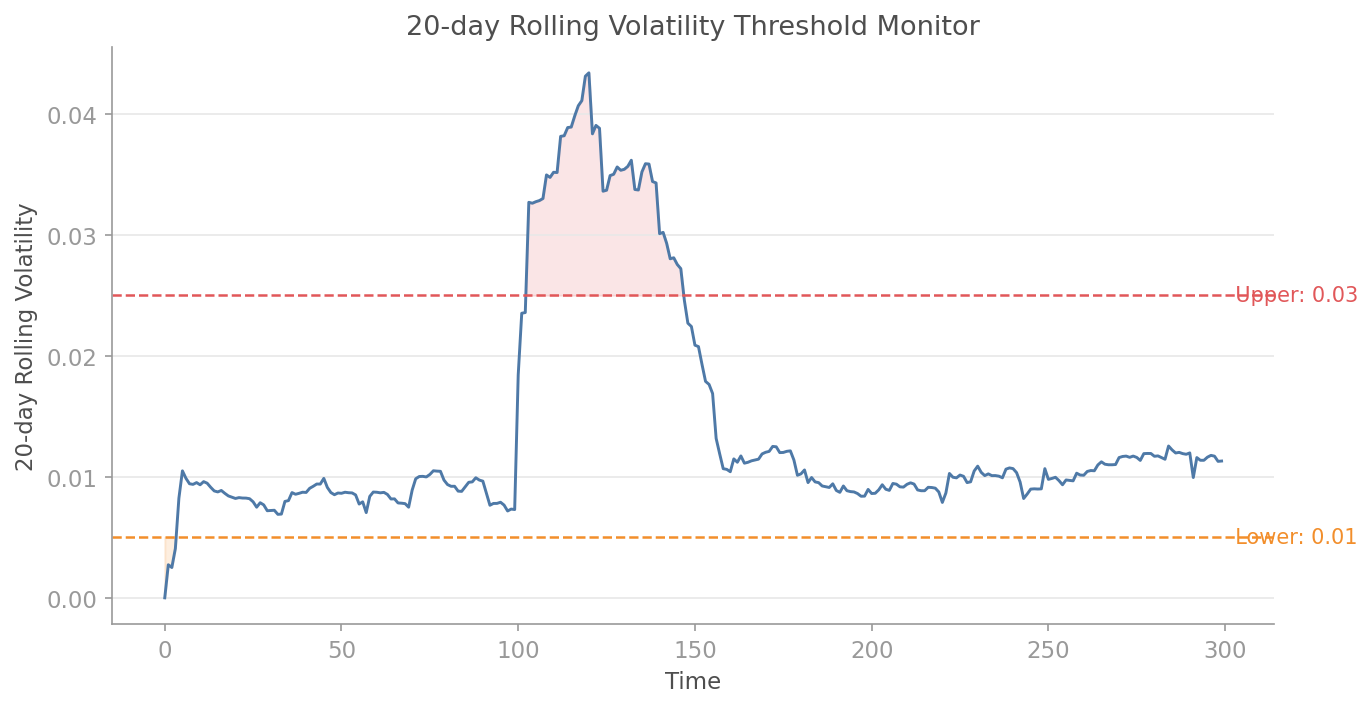
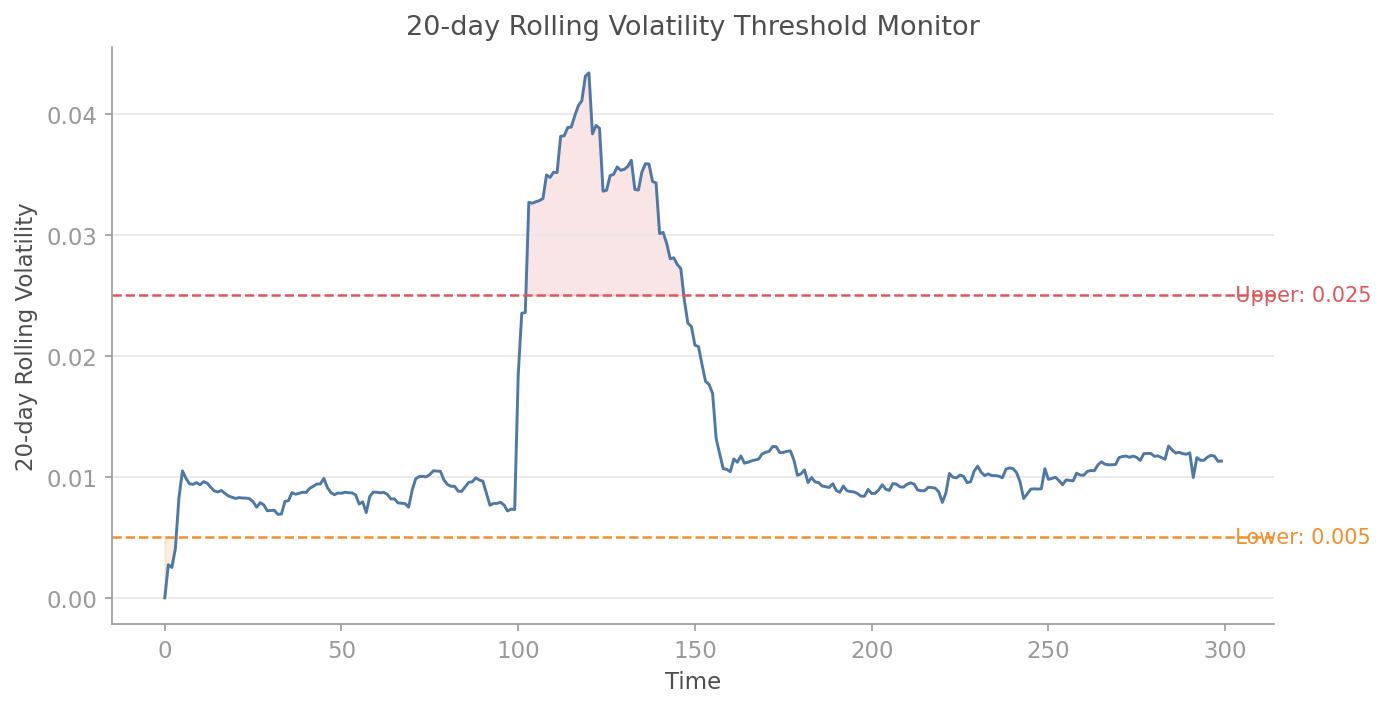
fix: polish all 9 v1.1 visualisation charts to Stephen Few standard
- streaming_live_feed: proper HH:MM timestamps, non-overlapping direct labels
- online_regime_evolution: use #4E79A7 (blue) for Calm instead of green,
  staggered end-of-line labels to prevent overlap
- online_regime_transitions: direct labels placed at longest regime run,
  use blue for Calm regime colour
- online_detection_lag: use primary blue for batch line
- alert_timeline: replace cluttered triangle markers with vertical lines
  at alpha 0.45 for cleaner crash-zone visualisation
- alert_threshold_monitor: fix label precision (0.025 not 0.03)
- All charts: Stephen Few muted palette, horizontal gridlines only,
  no box/frame, direct labels, bbox_inches=tight, dpi=150

diff --git a/src/quantlite/viz/online_regimes.py b/src/quantlite/viz/online_regimes.py
@@ -22,9 +22,9 @@ __all__ = [
 ]
 
 _REGIME_COLOURS = {
-    0: FEW_PALETTE["positive"],   # Calm
-    1: FEW_PALETTE["secondary"],  # Transitional
-    2: FEW_PALETTE["negative"],   # Crisis
+    0: FEW_PALETTE["primary"],    # Calm — muted blue
+    1: FEW_PALETTE["secondary"],  # Transitional — muted orange
+    2: FEW_PALETTE["negative"],   # Crisis — muted red
 }
 
 _REGIME_LABELS = {
@@ -61,14 +61,26 @@ def plot_regime_evolution(
     labels = regime_labels or _REGIME_LABELS
     colours = [_REGIME_COLOURS.get(i, FEW_PALETTE["neutral"]) for i in range(regime_probs.shape[1])]
 
+    # Find peak positions per regime for non-overlapping label placement
     for i in range(regime_probs.shape[1]):
         label = labels.get(i, f"Regime {i}")
         ax.plot(timestamps, regime_probs[:, i], color=colours[i], linewidth=1.4)
-        # Direct label at the end
+
+    # Place direct labels at end of series, staggered vertically
+    end_vals = [(regime_probs[-1, i], i) for i in range(regime_probs.shape[1])]
+    end_vals.sort(key=lambda x: x[0], reverse=True)
+    y_positions = []
+    min_gap = 0.08
+    for val, i in end_vals:
+        y = val
+        for yp in y_positions:
+            if abs(y - yp) < min_gap:
+                y = yp + min_gap if y >= yp else yp - min_gap
+        y_positions.append(y)
+        label = labels.get(i, f"Regime {i}")
         direct_label(
-            ax, timestamps[-1], regime_probs[-1, i],
-            f"  {label}",
-            colour=colours[i],
+            ax, timestamps[-1], y,
+            f"  {label}", colour=colours[i],
         )
 
     ax.set_ylim(-0.05, 1.05)
@@ -127,13 +139,26 @@ def plot_regime_transition_live(
     ax.set_ylabel("Return")
     ax.set_title("Returns with Online Regime Change Points")
 
-    # Add regime labels to the legend area via direct labels
+    # Direct labels — find the longest run of each regime and label there
     unique_regimes = sorted(set(int(r) for r in regimes))
-    for j, r in enumerate(unique_regimes):
+    best_runs: dict[int, tuple[int, int]] = {}  # regime -> (start, length)
+    i = 0
+    while i < len(regimes):
+        r = int(regimes[i])
+        run_start = i
+        while i < len(regimes) and int(regimes[i]) == r:
+            i += 1
+        run_len = i - run_start
+        if r not in best_runs or run_len > best_runs[r][1]:
+            best_runs[r] = (run_start, run_len)
+    y_max = max(returns)
+    for r in unique_regimes:
+        start, length = best_runs[r]
+        mid = start + length // 2
         colour = _REGIME_COLOURS.get(r, FEW_PALETTE["neutral"])
         label = labels.get(r, f"Regime {r}")
-        ax.plot([], [], color=colour, linewidth=6, alpha=0.3, label=label)
-    ax.legend(loc="upper left", frameon=False)
+        direct_label(ax, timestamps[mid], y_max * 0.9, label,
+                     colour=colour, fontsize=9, ha="center")
 
     return fig, ax
 
@@ -169,9 +194,9 @@ def plot_detection_lag(
                  colour=FEW_PALETTE["grey_mid"])
 
     ax.step(timestamps, batch_regimes, where="post",
-            color=FEW_PALETTE["positive"], linewidth=1.4)
+            color=FEW_PALETTE["primary"], linewidth=1.4)
     direct_label(ax, timestamps[-1], float(batch_regimes[-1]) + 0.08, "  Batch",
-                 colour=FEW_PALETTE["positive"])
+                 colour=FEW_PALETTE["primary"])
 
     ax.step(timestamps, online_regimes, where="post",
             color=FEW_PALETTE["secondary"], linewidth=1.4, linestyle="--")

diff --git a/src/quantlite/viz/alerts.py b/src/quantlite/viz/alerts.py
@@ -63,8 +63,8 @@ def plot_alert_timeline(
     for idx, atype in zip(alert_indices, alert_types):
         colour = type_colours.get(atype, FEW_PALETTE["negative"])
         label = atype.capitalize() if atype not in plotted_types else None
-        ax.plot(timestamps[idx], prices[idx], "v", color=colour,
-                markersize=8, label=label)
+        ax.axvline(timestamps[idx], color=colour, alpha=0.45, linewidth=1.2,
+                   linestyle="-", label=label)
         plotted_types.add(atype)
 
     ax.set_xlabel("Time")
@@ -111,7 +111,7 @@ def plot_threshold_monitor(
                         alpha=0.15, color=FEW_PALETTE["negative"],
                         interpolate=True)
         direct_label(ax, timestamps[-1], upper_threshold,
-                     f"  Upper: {upper_threshold:.2f}",
+                     f"  Upper: {upper_threshold:.3f}",
                      colour=FEW_PALETTE["negative"])
 
     if lower_threshold is not None:
@@ -122,7 +122,7 @@ def plot_threshold_monitor(
                         alpha=0.15, color=FEW_PALETTE["secondary"],
                         interpolate=True)
         direct_label(ax, timestamps[-1], lower_threshold,
-                     f"  Lower: {lower_threshold:.2f}",
+                     f"  Lower: {lower_threshold:.3f}",
                      colour=FEW_PALETTE["secondary"])
 
     ax.set_xlabel("Time")

diff --git a/src/quantlite/viz/streaming.py b/src/quantlite/viz/streaming.py
@@ -62,11 +62,18 @@ def plot_live_feed(
     ax.set_ylabel("Price ($)")
     ax.set_title(f"{symbol} Live Feed")
 
-    # Direct labels instead of legend
-    direct_label(ax, timestamps[-1], prices[-1], f"  {symbol}", colour=FEW_PALETTE["primary"])
+    # Direct labels — offset vertically to avoid overlap
+    price_range = prices.max() - prices.min()
+    label_offset = price_range * 0.04
+    direct_label(
+        ax, timestamps[int(len(timestamps) * 0.75)], prices[int(len(timestamps) * 0.75)] + label_offset,
+        symbol, colour=FEW_PALETTE["primary"], fontsize=10,
+    )
     if bid is not None and ask is not None:
-        mid_spread = (ask[-1] + bid[-1]) / 2
-        direct_label(ax, timestamps[-1], mid_spread, "  Spread", colour=FEW_PALETTE["secondary"])
+        direct_label(
+            ax, timestamps[int(len(timestamps) * 0.45)], bid[int(len(timestamps) * 0.45)] - label_offset,
+            "Bid–ask spread", colour=FEW_PALETTE["secondary"], fontsize=9,
+        )
 
     return fig, ax
 

diff --git a/examples/streaming_charts.py b/examples/streaming_charts.py
@@ -21,9 +21,11 @@ apply_few_theme()
 
 def chart_live_feed() -> None:
     """Simulated BTC-USD live feed with bid/ask spread."""
+    import pandas as pd
+
     rng = np.random.default_rng(42)
     n = 500
-    timestamps = np.arange(n)
+    timestamps = pd.date_range("2024-03-15 14:00", periods=n, freq="6s")
     # Random walk for price
     returns = rng.normal(0, 0.001, n)
     prices = 42_000 * np.exp(np.cumsum(returns))
@@ -35,6 +37,9 @@ def chart_live_feed() -> None:
     ask = prices + half_spread
 
     fig, ax = plot_live_feed(timestamps, prices, bid, ask, symbol="BTC-USD")
+    import matplotlib.dates as mdates
+    ax.xaxis.set_major_formatter(mdates.DateFormatter("%H:%M"))
+    ax.xaxis.set_major_locator(mdates.MinuteLocator(interval=10))
     fig.savefig(DOCS_IMAGES / "streaming_live_feed.png", bbox_inches="tight")
     plt.close(fig)
     print("✓ streaming_live_feed.png")

diff --git a/examples/online_regime_charts.py b/examples/online_regime_charts.py
@@ -50,7 +50,7 @@ def chart_regime_evolution() -> None:
     """Regime posterior probabilities evolving over time."""
     rng = np.random.default_rng(42)
     true_regimes, returns = _simulate_regime_data(300)
-    timestamps = np.arange(len(returns))
+    timestamps = np.arange(len(returns), dtype=float)
 
     # Simulate posterior probabilities (smoothed one-hot with noise)
     probs = np.zeros((len(returns), 3))
